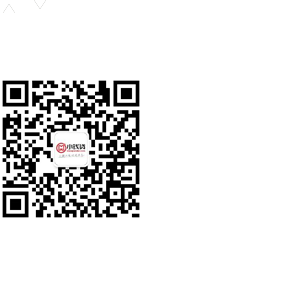
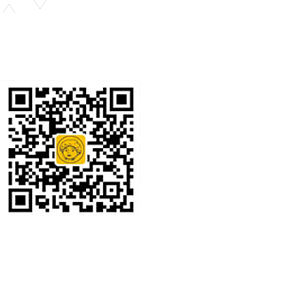
modify the weixin QR code and product page close button of popup box style

Changed region(s): [[0.0, 0.24, 0.48, 0.75]]

diff --git a/statics/css/dhmm/style.css b/statics/css/dhmm/style.css
@@ -274,7 +274,7 @@ body.pop .school_apply div.bx_agreement .inner {height:138px;}
 .pop_layer_menu .cont .right .with li *{display:inline-block; vertical-align:middle}
 .pop_layer_menu .cont .right .with li img {_behavior: url("/library/js/iepngfix.htc");}
 .pop_layer_menu .cont .right .with li span {color:#555555;font-family:Nanum Gothic;font-size:11px;font-weight:600;}
-.pop_layer_menu .cont a.pop_close {right:40px;bottom:30px;}
+.pop_layer_menu .cont a.pop_close {right:-40px;bottom:20px;}
 
 /* menu_ hot product */
 .menu_hot {background:url("../images/boardline1.gif") no-repeat;}
